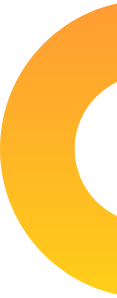
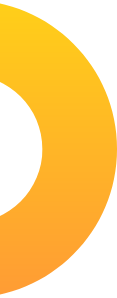
added css

diff --git a/index.html b/index.html
@@ -8,10 +8,70 @@
 <link rel="preconnect" href="https://fonts.gstatic.com" crossorigin>
 <link href="https://fonts.googleapis.com/css2?family=Poppins&display=swap" rel="stylesheet">
 
-<link rel="stylesheet" href="css/style.css">
+<link rel="shortcut icon" href="show-off/IMG_1887 copy.png" type="image/x-icon">
+ <link rel="stylesheet" href="style.css">
     <title>third developer portfolio </title>
 </head>
 <body>
-    
+    <section class="exp">
+        <div id="center"><h1>Welcome to</h1>
+            <h1><span class="title-color">Jubaer Hossen's</span> Word</h1>
+    </div>
+        <div class="flexible-container">
+            
+            <div id="exp-first" class="exp-item">
+                <h2>Graphic Designe
+                </h2>
+                <h3 class="title-color">2020-Present | Pro Level  Graphic Designe
+                </h3>
+                <p>
+                    Hello dear, I am MD Jubaer Hossen. I am a professional graphics designer. I am an expert in Adobe Photoshop and Adobe Illustrator. I have a lot of experience in poster design, add design, banner design, social media design, photo edit, and any photoshop work.
+                </p>
+                <a class="link-button" target="_blank" href="https://www.fiverr.com/users/jubaerr007">HAIR ME </a>
+
+            </div>
+
+            <div id="exp-second" class="exp-item">
+                <h2>Dream Big</h2>
+                <h3 class="title-color">Become a web developer.</h3>
+                <p>I already learned the basic HTML and CSS. I can build any simple website. I can even teach my grandma how to make simple website. My goal is to build 3 websites and learn advanced topics.</p>
+                <a class="link-button" target="_blank" href="">DOWNLOAD RESUME</a> 
+            </div>
+        </div>
+    </section>
+
+    <section class="flexible-container welcome">
+        <div class="half">
+            <img src="show-off/my-bg.png" alt="My photo">
+        </div>
+        <div class="half"> 
+            <h1>Experiences!
+            </h1>
+            <h2> <span class="title-color">Full Stack Web Developer</span></h2>
+            <h3>2022-Present | Pro Level Developer</h3>
+            <p>I am the master of HTML, CSS and Javascript. I know everything needed to make a website function, efficient. I didn't stop with the web. I went beyond with most popular Javascript framework called Vue JS. I even know the deployment, server and security. I will give you 100% web solution.</p>
+             
+
+        </div>
+
+    </section>
+
+    <section class="flexible-container dream-Big">
+        <div class="half">
+            <h1>Baby Web Developer</h1>
+            <h3>2021-2022 | Programming Hero Learner.</h3>
+            <p>
+                They didn't offer me a job. But I made myself as a remove web developer. I made their website and showed it to them. They liked it. And uploaded the content. It was fun working at Programming Hero.
+            </p>
+             
+        </div>
+
+        <div class="half">
+            <img src="show-off/my-bg2.png" alt="photo of jubaer">
+        </div>
+    </section>
+    <footer id="fot">
+        <p>© Jubaer Hossen 2021, a Programming Hero initiative.</p>
+    </footer>
 </body>
 </html>

diff --git a/style.css b/style.css
@@ -1,0 +1,89 @@
+body {
+    font-family: 'Poppins', sans-serif;
+    margin: 0%;
+}
+
+h1 {
+    font-weight: 700;
+    font-size: 45px;
+}
+
+#center {
+    text-align: center;
+}
+
+.dream-Big {
+    background-image: url(images/dream-bg.png);
+    background-repeat: no-repeat;
+    background-position: left;
+
+}
+
+.welcome {
+    background-image: url(images/2exp-bg.png);
+    background-repeat: no-repeat;
+    background-position: right;
+}
+
+.flexible-container {
+    display: flex;
+    padding-bottom: 150px;
+}
+
+#exp-first {
+    border-right: 7px solid;
+    border-image: linear-gradient(blue, cyan);
+    border-image-slice: 1;
+}
+
+#exp-second {
+    border-right: 7px solid;
+    border-image: linear-gradient(orange, tomato);
+    border-image-slice: 1;
+}
+
+.link-button {
+    text-decoration: none;
+    background-image: linear-gradient(orange, tomato);
+    padding: 10px 40px;
+    color: white;
+    font-weight: 700;
+    border-radius: 5px;
+}
+
+.half {
+    width: 50%;
+    padding: 5%;
+    text-align: justify;
+}
+
+.half img {
+    width: 90%;
+}
+
+.exp-item {
+    box-shadow: 10px 10px 40px gray;
+    width: 40%;
+    margin-left: 2%;
+    margin-right: 5%;
+    padding-left: 30Px;
+    border-radius: 10px;
+    padding-bottom: 80px;
+    padding-right: 20px;
+    text-align: justify;
+}
+
+.title-color {
+    color: orange;
+}
+
+.exp {
+    background-image: url(images/exp-bg.png);
+    background-repeat: no-repeat;
+    background-position: 0% 15%;
+
+}
+
+#fot {
+    text-align: center;
+}
